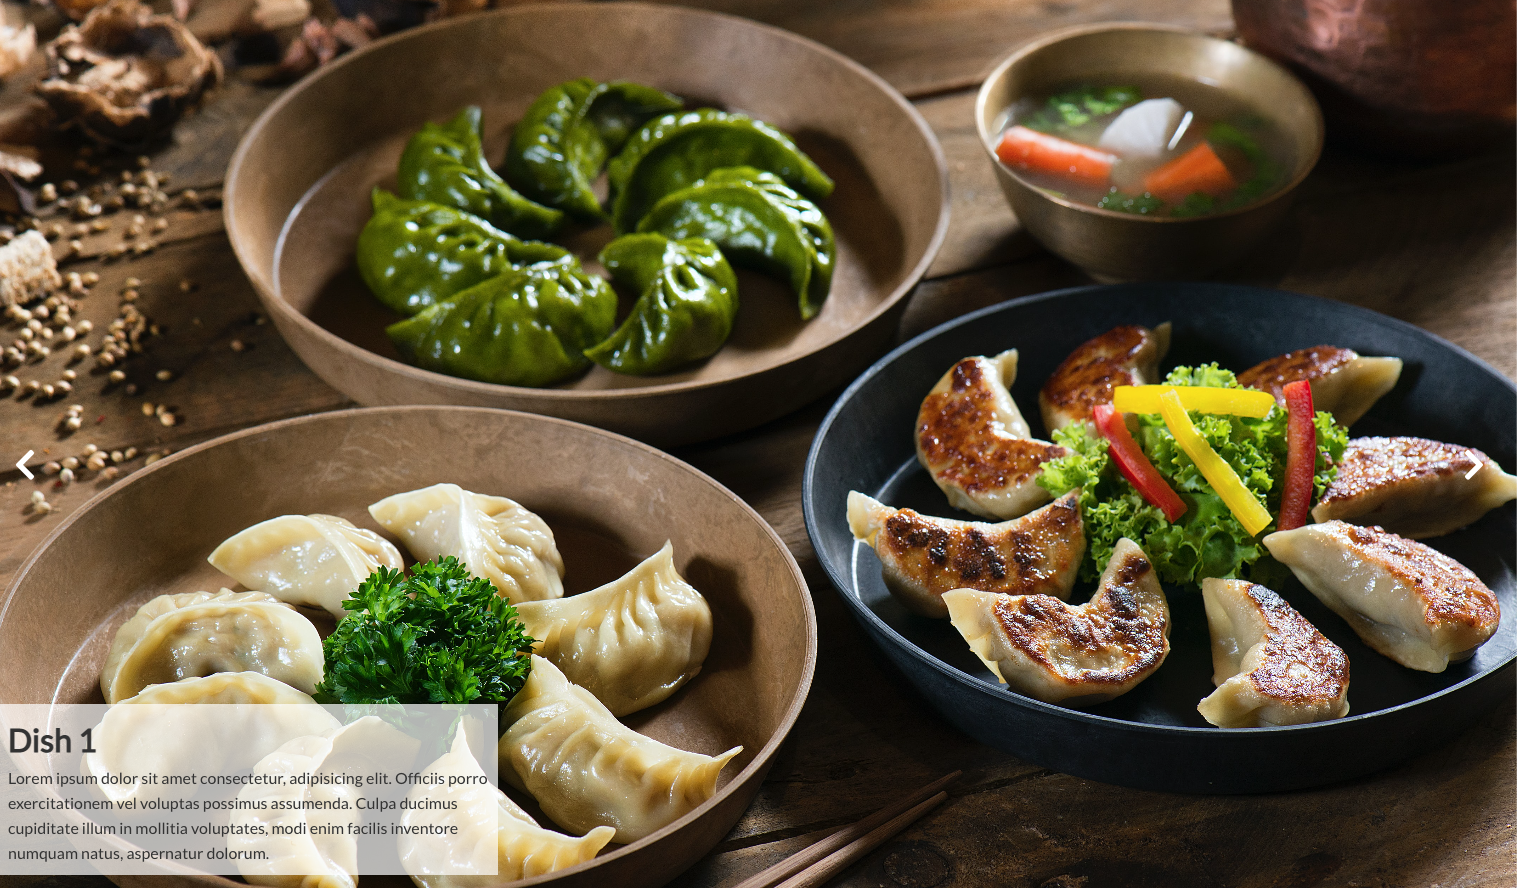
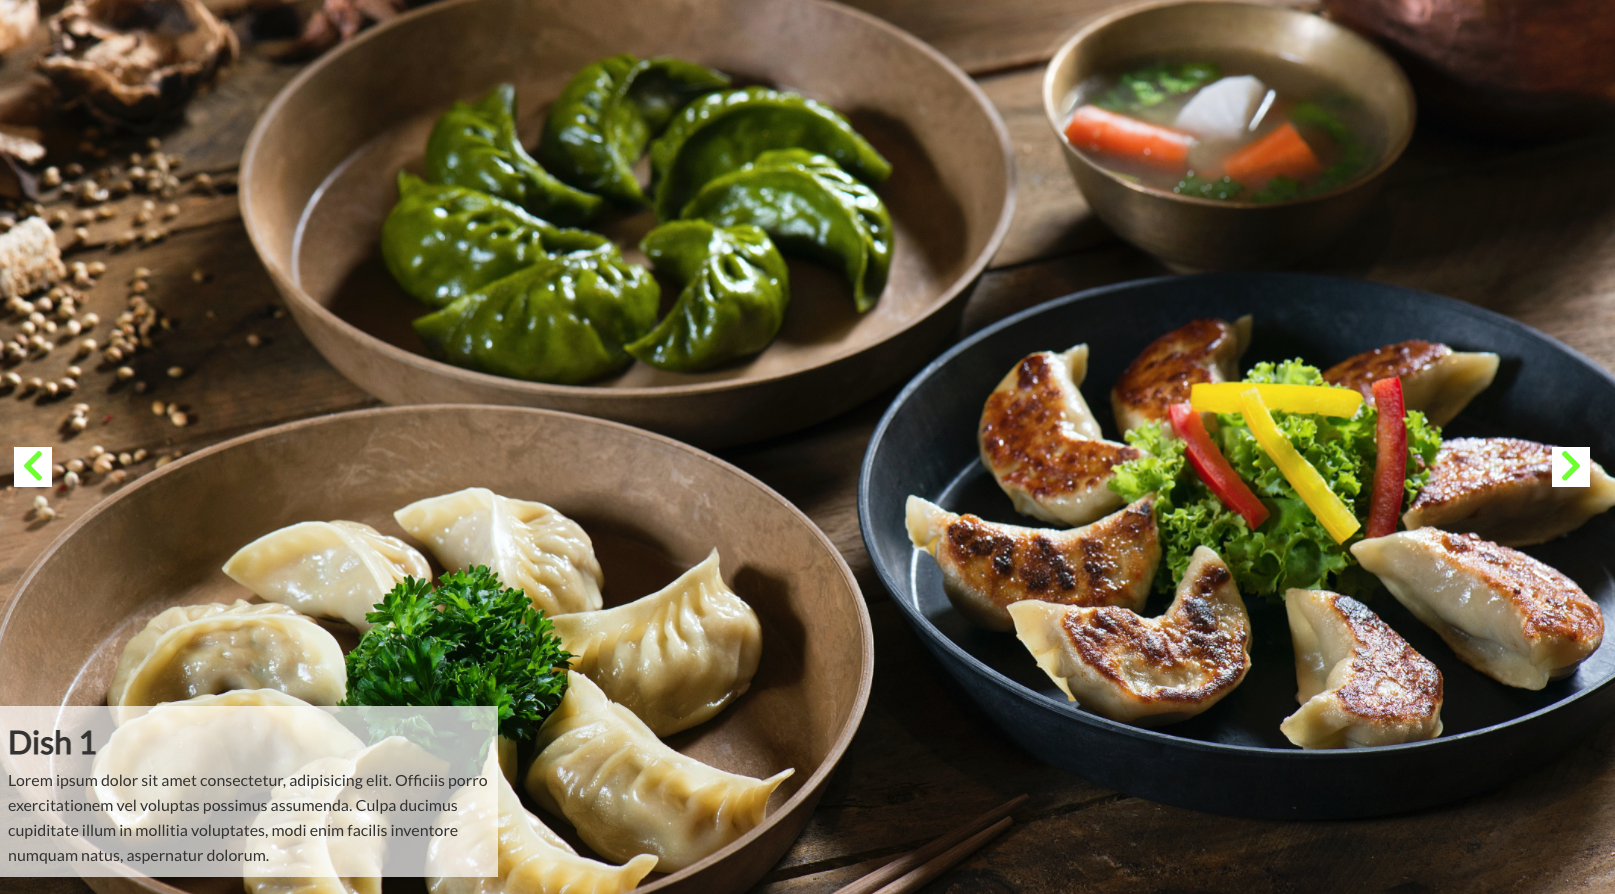
Changed btns, cleaned up JS, and took some new screenshots for README

diff --git a/styles.css b/styles.css
@@ -69,16 +69,16 @@ body {
 }
 
 .btns button {
-  background: transparent;
-  outline: none;
+  background: #fff;
   border: none;
-  color: #fff;
+  color: rgb(94, 253, 46);
   font-size: 2.2rem;
+  padding: 0 8px;
 }
 
 .btns button:hover {
   cursor: pointer;
-  color: #ddd;
+  color: rgb(166, 255, 139);
   transition: 0.3s ease-in-out;
   transform: scale(1.3);
 }
@@ -87,6 +87,12 @@ body {
 @media (max-width: 600px) {
   .slides .content {
     width: 100%;
+    bottom: -300px;
+    left: 0;
+  }
+  .slides.current .content {
+    transform: translateY(-300px);
+    left: 0;
   }
 }
 

diff --git a/index.html b/index.html
@@ -54,13 +54,13 @@
           aspernatur dolorum.</p>
       </div>
     </div>
+  </div>
 
-    <!-- Buttons -->
+  <!-- Buttons -->
 
-    <div class="btns">
-      <button id="prev"><i class="fa fa-chevron-left" aria-hidden="true"></i></button>
-      <button id="next"><i class="fa fa-chevron-right" aria-hidden="true"></i></button>
-    </div>
+  <div class="btns">
+    <button id="prev"><i class="fa fa-chevron-left" aria-hidden="true"></i></button>
+    <button id="next"><i class="fa fa-chevron-right" aria-hidden="true"></i></button>
   </div>
 
   <script src="app.js"></script>

diff --git a/README.md b/README.md
@@ -1,5 +1,17 @@
 # Food Slideshow
 ## Click the previous and next buttons to bring on the next delicious dish.
-![Screenshot 1](/images/screenshot1.png)
+![Screenshot1](/images/screenshot1.png)
 
-![Screenshot 2](/images/screenshot2.png)
+![Screenshot2](/images/screenshot2.png)
+
+<hr />
+
+### There is a timer set for 5s which transitions into the next slide, and is reset when either prev/next button is clicked
+
+![Screenshot3](/images/screenshot3.png)
+
+<hr />
+
+### Responsive, the text block is stretched to 100%, and transitions in from the bottom, instead of the left
+
+![Screenshot4](/images/screenshot4.png)
